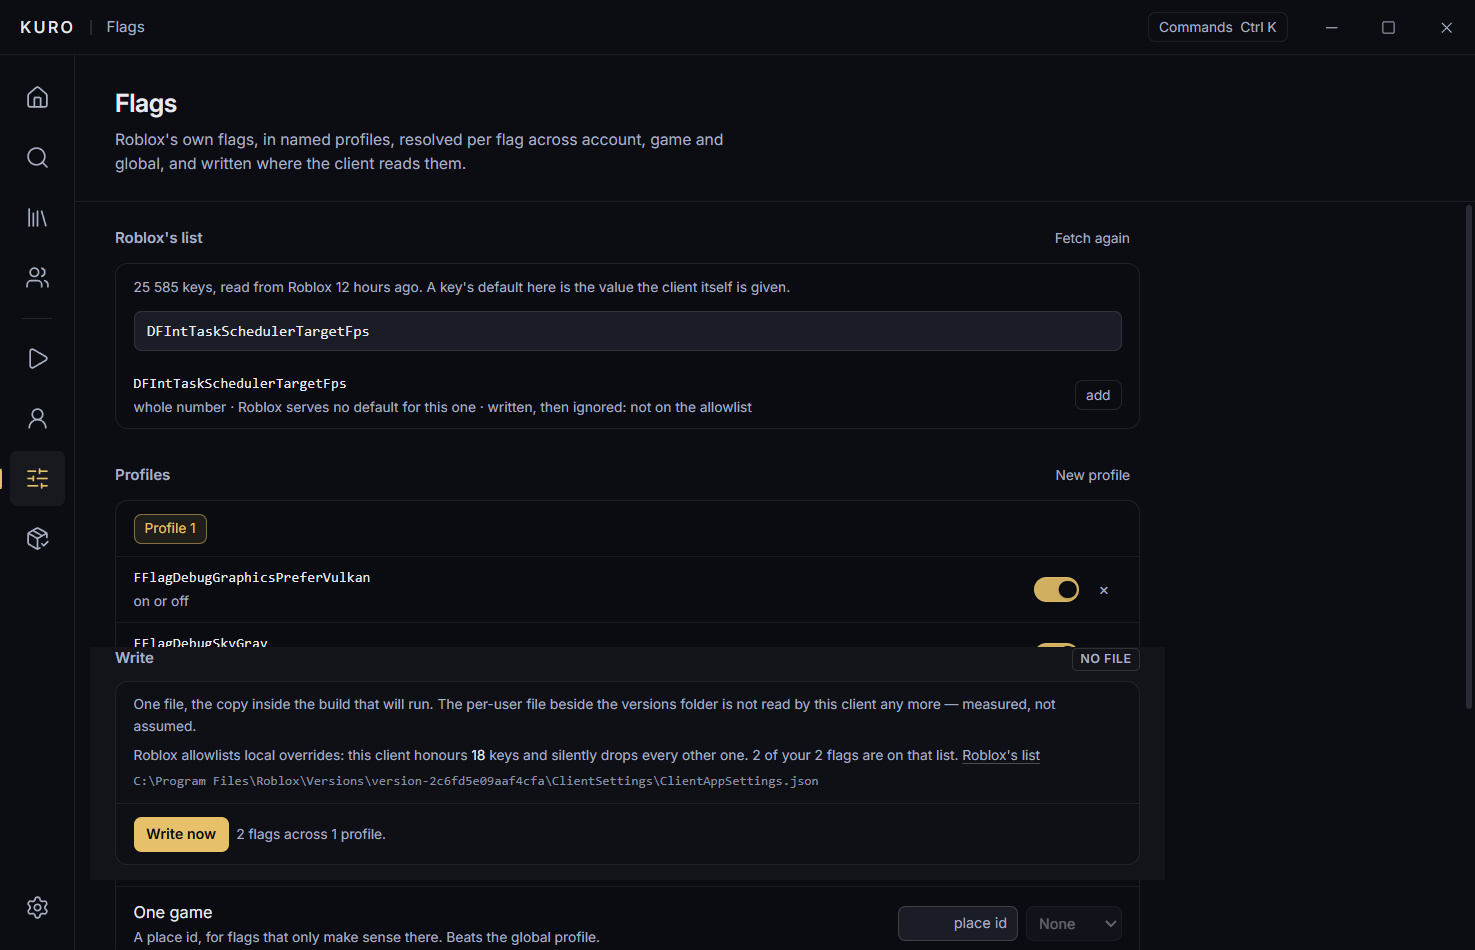
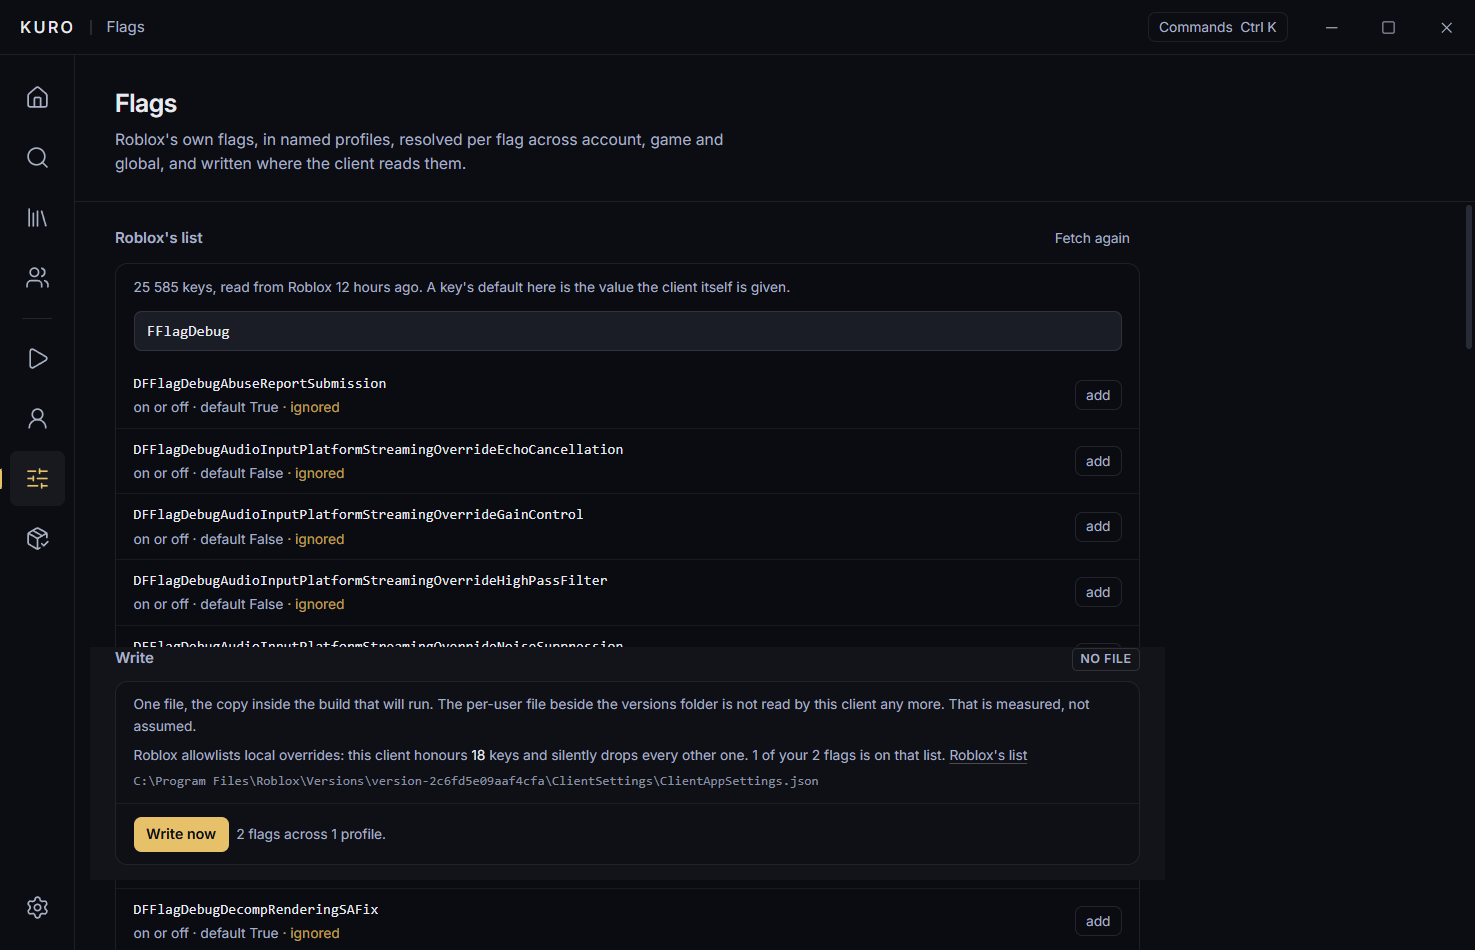
Say "ignored" once per row, not twice per row
Two copy corrections on the flags screen, both found by looking at it rather than
by reading it.

The Write section carried an em dash, which this project forbids in UI text. It is
a full stop now.

The search rows spelled out "written, then ignored: not on the allowlist" on
every key that Roblox drops, which is 40 rows of the same sentence. The rule is
stated once, with its source, in the Write section; the row only needs to say
which side of it the key is on, so it says "ignored" and leaves the reasoning
where a person reads it once.

diff --git a/src/panels/FlagsPanel.tsx b/src/panels/FlagsPanel.tsx
@@ -155,11 +155,7 @@ function Catalog() {
                     ) : (
                       <span className="num"> · default {hit.default}</span>
                     )}
-                    {hit.honoured ? (
-                      <span> · the client honours this one</span>
-                    ) : (
-                      <span> · written, then ignored: not on the allowlist</span>
-                    )}
+                    {hit.honoured ? null : <span className="text-gold/80"> · ignored</span>}
                   </div>
                 </div>
                 <button
@@ -560,7 +556,7 @@ function Write() {
       <div className="px-3.5 py-2.5">
         <p className="text-[11px] leading-[1.55] text-muted">
           One file, the copy inside the build that will run. The per-user file beside the
-          versions folder is not read by this client any more — measured, not assumed.
+          versions folder is not read by this client any more. That is measured, not assumed.
         </p>
         <p className="mt-1.5 text-[11px] leading-[1.55] text-muted">
           Roblox allowlists local overrides: this client honours{" "}
